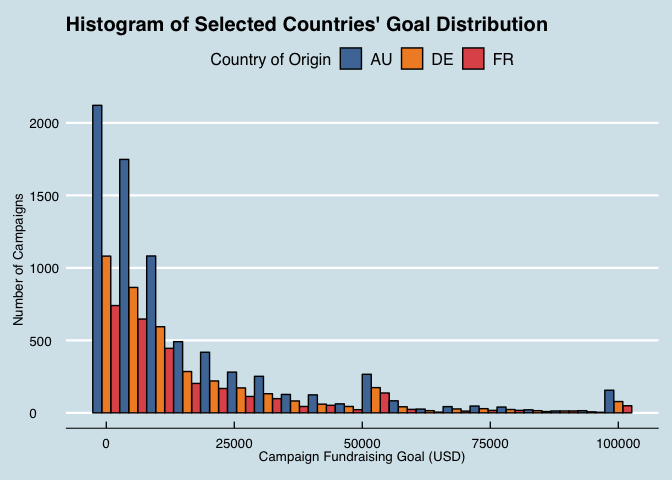
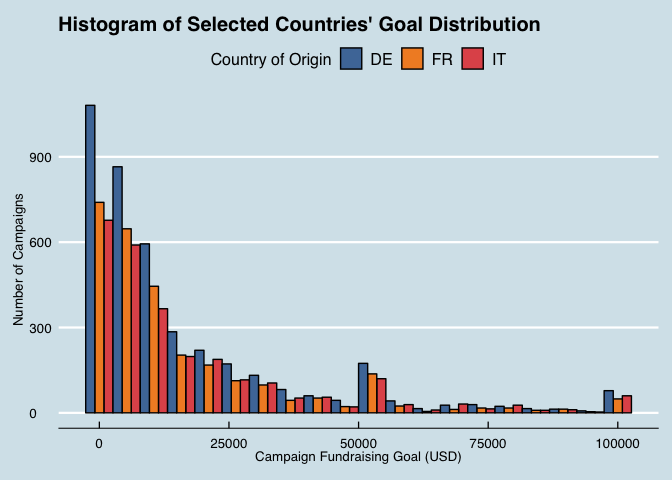
add histogram with custom-delimited-buckets (raw count-based)

diff --git a/eda-and-visualization/eda_and_visualization.md b/eda-and-visualization/eda_and_visualization.md
@@ -1,7 +1,7 @@
 Exploratory Data Analysis (EDA) and Visualization
 ================
 Paul Jeffries
-03 September, 2018
+05 September, 2018
 
 -   [Introduction](#introduction)
     -   [Setup](#setup)
@@ -12,6 +12,7 @@ Paul Jeffries
     -   [High-Level Summary Stats](#high-level-summary-stats)
 -   [Histograms](#histograms)
     -   [Simple Multi-Category Histogram](#simple-multi-category-histogram)
+    -   [Multi-Category Histogram with Custom-Delimited-Buckets](#multi-category-histogram-with-custom-delimited-buckets)
 -   [Density Plots](#density-plots)
     -   [2 Probability Density Functions (PDFs) Compared](#probability-density-functions-pdfs-compared)
     -   [3 PDFs Compared w/ Facets](#pdfs-compared-w-facets)
@@ -172,7 +173,7 @@ base_df %>%
   # filter to just 3 countries and set a goal cap
   # this is mostly just arbitrary for the purpose of an easy-to-read exemplar 
   dplyr::filter(
-    country %in% c("AU","DE","FR"),
+    country %in% c("IT","DE","FR"),
     goal <= 100000
     ) %>%
   # base ggplot call
@@ -198,6 +199,60 @@ base_df %>%
 ```
 
 ![](eda_and_visualization_files/figure-markdown_github/unnamed-chunk-8-1.png)
+
+Multi-Category Histogram with Custom-Delimited-Buckets
+------------------------------------------------------
+
+Perhaps we are now beginning to develop an intuition as to which buckets are most key. We might then wish to build a histogram with custom-delimited-buckets, as done below.
+
+``` r
+base_df %>%
+  # select only our variables of interest 
+  dplyr::select(goal, country) %>%
+  # filter to just 3 countries and set a goal cap
+  # this is mostly just arbitrary for the purpose of an easy-to-read exemplar 
+  dplyr::filter(
+    country %in% c("IT","DE","FR")
+    ) %>%
+  dplyr::mutate(
+    custom_buckets = cut(
+      x = goal,
+      # sets the break points for cuts; see options for inclusion/exclusion details
+      breaks = c(0, 1000, 5000, 10000, 25000, 50000, 100000, Inf),
+      # ensures no use of scientific notation in labeling
+      dig.lab = 10
+      )
+  ) %>%
+  dplyr::group_by(country, custom_buckets) %>%
+  # gets the grouped by within-categor counts
+  dplyr::tally() %>%
+    # base ggplot call
+    ggplot(., aes(custom_buckets, n)) +
+      geom_bar(aes(fill = country), color = "black", position = "dodge", stat="identity") +
+      # takes care of the precise labeling; hjust/vjust and angle need to be set visually
+      geom_text(aes(label=n, group=country), hjust=-0.20, angle=90, position = position_dodge(width=1)) +
+      # picking a colorblind-friendly color scheme and theme
+      ggthemes::scale_fill_tableau() +
+      ggthemes::theme_economist() +
+      # custom axis limits; for this kind of chart I prefer to set these manually
+      scale_y_continuous(limits = c(0, 1250)) +
+      # setting legend and axis aesthetic details
+      theme(
+        legend.position = "top",
+        legend.title = element_text(size=12),
+        legend.text = element_text(size=12),
+        axis.text.x = element_text(size=8)
+        ) +
+      # takes care of all labeling
+      labs(
+        title = paste0("Count of Campagins by Goal Amount Bucket"),
+        y = "Number of Campaigns",
+        x = "Campaign Fundraising Goal Bucket (USD)",
+        fill = "Country of Origin"
+      )
+```
+
+![](eda_and_visualization_files/figure-markdown_github/unnamed-chunk-9-1.png)
 
 Density Plots
 =============
@@ -239,7 +294,7 @@ base_df %>%
     )
 ```
 
-![](eda_and_visualization_files/figure-markdown_github/unnamed-chunk-9-1.png)
+![](eda_and_visualization_files/figure-markdown_github/unnamed-chunk-10-1.png)
 
 3 PDFs Compared w/ Facets
 -------------------------
@@ -279,4 +334,4 @@ base_df %>%
     )
 ```
 
-![](eda_and_visualization_files/figure-markdown_github/unnamed-chunk-10-1.png)
+![](eda_and_visualization_files/figure-markdown_github/unnamed-chunk-11-1.png)
